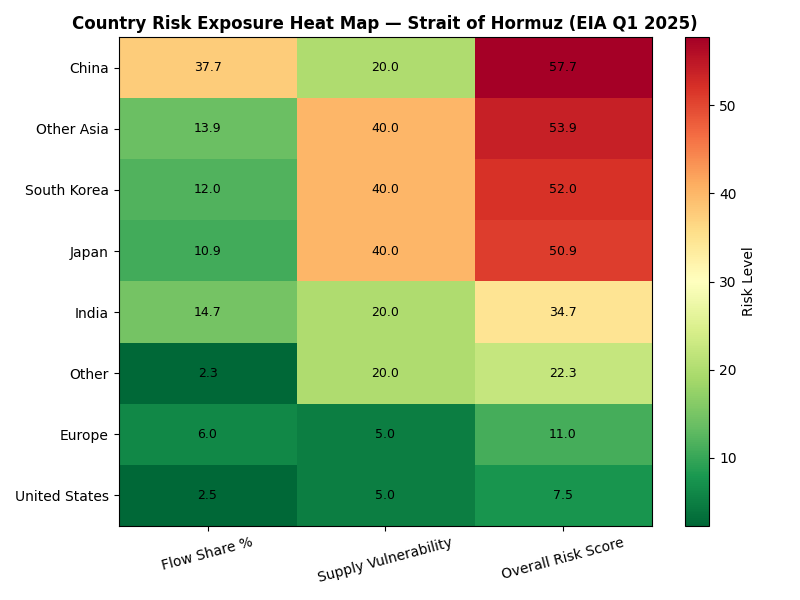
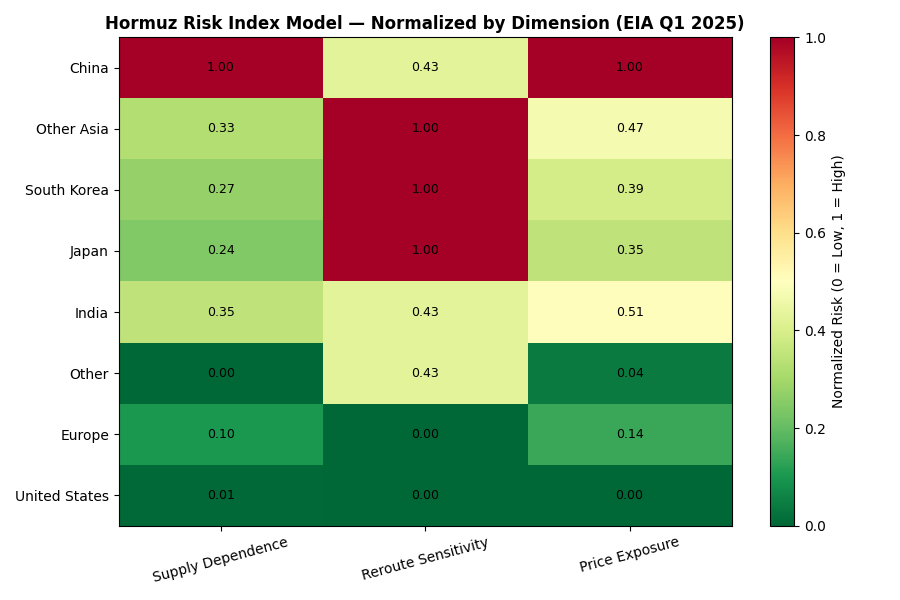
Upgrade heat map to normalized risk index model with three dimensions

diff --git a/01_hormuz_risk_analysis/hormuz_risk_analysis.py b/01_hormuz_risk_analysis/hormuz_risk_analysis.py
@@ -91,27 +91,52 @@ plt.savefig('hormuz_risk_chart.png')
 plt.show()
 import numpy as np
 
-# ── HEAT MAP: Country Risk Exposure by Factor ─────────────────────────────────
+# ── HEAT MAP: Normalized Risk Index Model ─────────────────────────────────────
+from sklearn.preprocessing import MinMaxScaler
+
+# Define three distinct risk dimensions
 heat_data = df_sorted[['country']].copy()
-heat_data['Flow Share %'] = df_sorted['pct_of_total']
-heat_data['Supply Vulnerability'] = df_sorted['supply_vulnerability']
-heat_data['Overall Risk Score'] = df_sorted['exposure_score']
+
+# Dimension 1: Supply Dependence — how much of their oil comes through Hormuz
+heat_data['Supply Dependence'] = df_sorted['pct_of_total'].values
+
+# Dimension 2: Reroute Sensitivity — how hard is it to find alternatives
+heat_data['Reroute Sensitivity'] = df_sorted['supply_vulnerability'].values
+
+# Dimension 3: Price Exposure — barrels at risk x oil price, normalized by flow
+full_closure = results_df[results_df['scenario'] == 'Full Closure (100%)'].copy()
+full_closure = full_closure.set_index('country')
+heat_data['Price Exposure'] = [
+    full_closure.loc[c, 'revenue_impact_per_day_usd'] / 1_000_000 
+    if c in full_closure.index else 0 
+    for c in df_sorted['country']
+]
+
 heat_data = heat_data.set_index('country')
 
-fig2, ax = plt.subplots(figsize=(8, 6))
-im = ax.imshow(heat_data.values, cmap='RdYlGn_r', aspect='auto')
+# Normalize all dimensions to 0-1 scale
+scaler = MinMaxScaler()
+normalized = pd.DataFrame(
+    scaler.fit_transform(heat_data),
+    columns=heat_data.columns,
+    index=heat_data.index
+)
 
-ax.set_xticks(range(len(heat_data.columns)))
-ax.set_xticklabels(heat_data.columns, rotation=15)
-ax.set_yticks(range(len(heat_data.index)))
-ax.set_yticklabels(heat_data.index)
+fig2, ax = plt.subplots(figsize=(9, 6))
+im = ax.imshow(normalized.values, cmap='RdYlGn_r', aspect='auto', vmin=0, vmax=1)
 
-for i in range(len(heat_data.index)):
-    for j in range(len(heat_data.columns)):
-        ax.text(j, i, round(heat_data.values[i, j], 1), ha='center', va='center', color='black', fontsize=9)
+ax.set_xticks(range(len(normalized.columns)))
+ax.set_xticklabels(normalized.columns, rotation=15)
+ax.set_yticks(range(len(normalized.index)))
+ax.set_yticklabels(normalized.index)
 
-plt.colorbar(im, ax=ax, label='Risk Level')
-ax.set_title('Country Risk Exposure Heat Map — Strait of Hormuz (EIA Q1 2025)', fontweight='bold')
+for i in range(len(normalized.index)):
+    for j in range(len(normalized.columns)):
+        ax.text(j, i, f'{normalized.values[i, j]:.2f}', 
+                ha='center', va='center', color='black', fontsize=9)
+
+plt.colorbar(im, ax=ax, label='Normalized Risk (0 = Low, 1 = High)')
+ax.set_title('Hormuz Risk Index Model — Normalized by Dimension (EIA Q1 2025)', fontweight='bold')
 plt.tight_layout()
 plt.savefig('hormuz_heatmap.png')
 plt.show()
